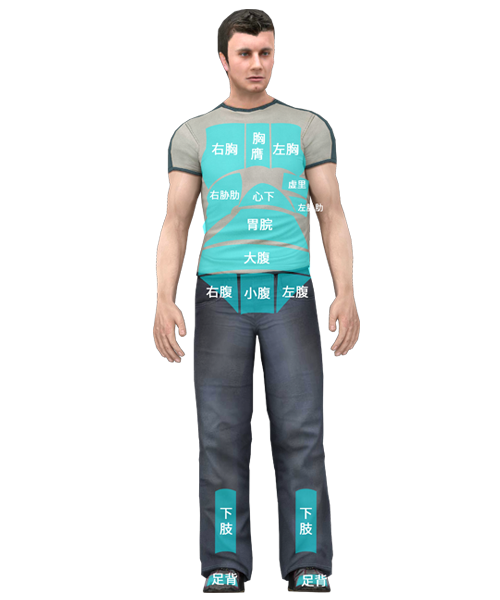
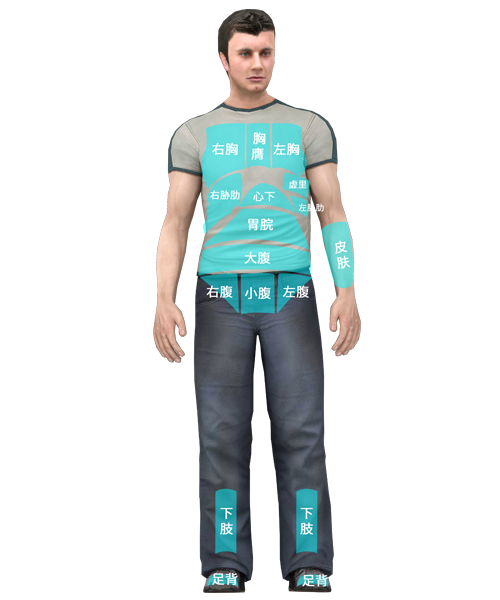
按诊皮肤

diff --git a/src/pages/usercore/case/userCut.vue b/src/pages/usercore/case/userCut.vue
@@ -365,6 +365,17 @@ export default {
           "," +
           height * 0.983,
       };
+      arr[14] = {
+        name: "皮肤",
+        area:
+          width * 0.48 +
+          "," +
+          height * 0.187 +
+          "," +
+          width * 0.593 +
+          "," +
+          height * 0.224,
+      };
       arr.forEach((item) => this.mapArea.push(item));
     },
     boy(width, height) {
@@ -376,9 +387,9 @@ export default {
           "," +
           height * 0.2016 +
           "," +
-          width * 0.484 +
+          width * 0.583 +
           "," +
-          height * 0.275,
+          height * 0.224,
       };
       arr[1] = {
         name: "胸膺",
@@ -522,6 +533,17 @@ export default {
           width * 0.472 +
           "," +
           height * 0.98,
+      };
+      arr[14] = {
+        name: "皮肤",
+        area:
+          width * 0.675 +
+          "," +
+          height * 0.3792 +
+          "," +
+          width * 0.74 +
+          "," +
+          height * 0.488,
       };
       arr.forEach((item) => this.mapArea.push(item));
     },

diff --git a/src/pages/index.vue b/src/pages/index.vue
@@ -47,6 +47,11 @@ export default {
     editPassword,
     editUser,
   },
+  data() {
+    return {
+      text: "",
+    };
+  },
   mounted() {
     localStorage.removeItem("bgindex");
     localStorage.removeItem("examNo");
